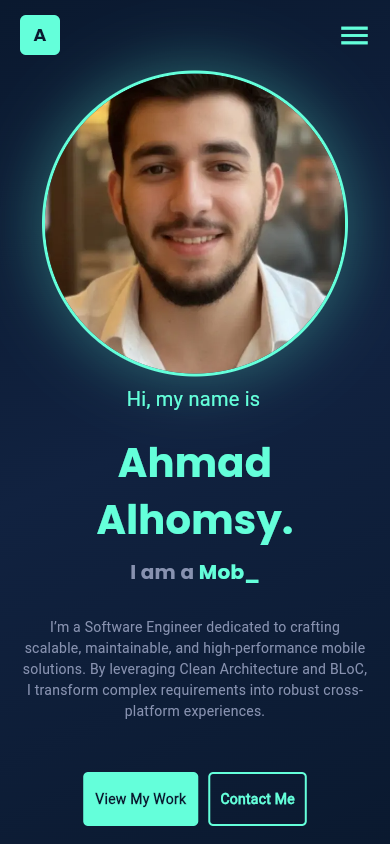
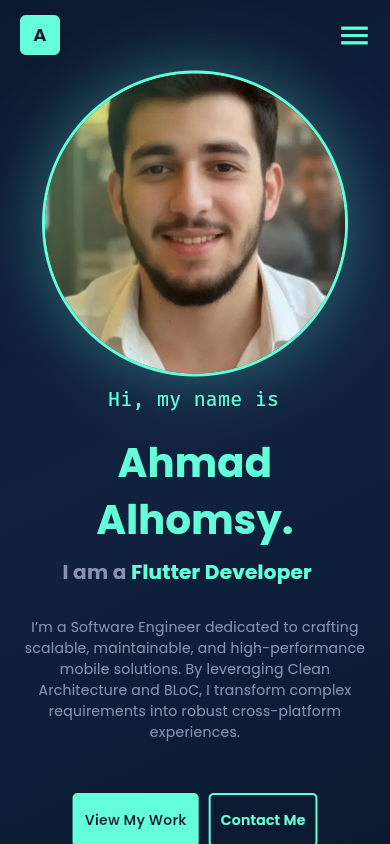
docs: correct README technical details and project previews

diff --git a/README.md b/README.md
@@ -1,12 +1,11 @@
 # Ahmad Alhomsy | Software Engineer & Flutter Developer
 
 [![CI/CD Pipeline](https://github.com/ahmadhomsy/portfolio/actions/workflows/deploy-netlify.yml/badge.svg?branch=main)](https://github.com/ahmadhomsy/portfolio/actions/workflows/deploy-netlify.yml)
-[![Flutter Version](https://img.shields.io/badge/Flutter-3.41.9-02569B?logo=flutter)](https://flutter.dev)
-[![Dart Version](https://img.shields.io/badge/Dart-3.11.0+-0175C2?logo=dart)](https://dart.dev)
+[![Flutter](https://img.shields.io/badge/Flutter-3.41.9-02569B?logo=flutter)](https://flutter.dev)
+[![Dart SDK](https://img.shields.io/badge/Dart_%3E%3D3.0.0_%3C4.0.0-0175C2?logo=dart)](https://dart.dev)
 [![Netlify Status](https://img.shields.io/badge/Hosted_on-Netlify-00C7B7?logo=netlify)](https://ahmad-alhomsy-portfolio.netlify.app)
-[![License: All Rights Reserved](https://img.shields.io/badge/License-All_Rights_Reserved-lightgrey.svg)](#license)
 
-Personal portfolio web application engineered with **Flutter Web**, demonstrating production-grade software architecture, responsive UI design, reactive state management, and automated continuous delivery.
+Personal portfolio web application engineered with **Flutter Web**, demonstrating structured feature-first architecture, responsive UI design, reactive state management, and automated continuous delivery.
 
 [**Explore Live Website**](https://ahmad-alhomsy-portfolio.netlify.app) &nbsp;&bull;&nbsp;
 [**GitHub Profile**](https://github.com/ahmadhomsy) &nbsp;&bull;&nbsp;
@@ -29,34 +28,60 @@ Personal portfolio web application engineered with **Flutter Web**, demonstratin
 
 This repository houses the personal portfolio single-page application (SPA) of **Ahmad Alhomsy**, a Mobile Software Engineer specializing in cross-platform application development with Flutter and Dart.
 
-The application serves as both an interactive résumé and a tangible demonstration of frontend engineering best practices:
-- **Clean Architecture & Decoupling:** Structured into independent core and feature layers to maximize testability and maintainability.
-- **Production CI/CD Automation:** Every Pull Request undergoes automated static analysis, code formatting verification, and production compilation checks before deployment.
-- **Responsive Across Form Factors:** Designed from the ground up to provide optimal viewing experiences across desktop monitors, tablets, and smartphones.
+The application serves as both an interactive résumé and a demonstration of software engineering practices:
+- **Feature-First Architecture:** Organized into modular feature packages and core shared services.
+- **Automated CI/CD:** Every Pull Request undergoes automated static analysis, code formatting verification, and release compilation before deployment.
+- **Responsive Across Devices:** Designed from the ground up to provide optimal viewing experiences across desktop, tablet, and mobile breakpoints.
 
 ---
 
 ## Key Features
 
 - **Responsive Multi-Device Layout:** Adaptive layouts featuring distinct desktop and mobile presentations, including collapsed navigation drawers and responsive typography.
-- **Fluid Micro-Interactions & Animations:** Declarative entrance transitions and hover states orchestrated via `flutter_animate` and custom typing effects.
-- **Declarative SPA Navigation:** Configured with `go_router` supporting deep linking, clean URLs, and client-side route fallback handling via Netlify edge redirects (`_redirects` and `netlify.toml`).
-- **Reactive State Architecture:** Predictable state flow powered by BLoC and Cubit patterns (`flutter_bloc`), separating business logic from UI widgets.
-- **Service Locator & Dependency Injection:** Loose coupling facilitated through `get_it`, allowing modular registration of services and helpers.
-- **SEO & Social Open Graph Integration:** Rich Open Graph and Twitter Card metadata embedded for search engine discoverability and social sharing previews.
+- **Fluid Micro-Interactions & Animations:** Declarative entrance transitions and hover states orchestrated via `flutter_animate` and dynamic typing effects powered by `animated_text_kit`.
+- **Declarative Routing:** Configured with `go_router` in `lib/core/helpers/go_router_helper.dart` supporting deep linking, clean URLs, and client-side route fallback handling via Netlify redirects defined in `netlify.toml`.
+- **Reactive State Management:** Predictable state flow powered by BLoC and Cubit patterns (`flutter_bloc`), separating business logic from UI widgets.
+- **Service Locator & Dependency Injection:** Loose coupling facilitated through `get_it`, initialized in `lib/injection_container.dart` for modular registration of services and helpers.
+- **SEO & Social Open Graph Integration:** Rich Open Graph and Twitter Card metadata embedded in `web/index.html` for discoverability and link previews.
 
 ---
 
 ## Featured Projects
 
-The portfolio showcases key mobile applications demonstrating architecture patterns, REST API integration, and real-world workflows:
-
-| Project | Description | Tech Stack | Repository |
-| :--- | :--- | :--- | :---: |
-| **Sham Booking** | Hotel and accommodation booking platform featuring comprehensive search filters, room discovery, and booking management. | Flutter, Dart, Clean Architecture, BLoC, REST APIs | [View Source](https://github.com/ahmadhomsy/sham-booking) |
-| **Daily Done** | Productivity and task execution manager implementing clean domain architecture, local persistence, and stateful task tracking. | Flutter, Dart, Clean Architecture, BLoC | [View Source](https://github.com/ahmadhomsy/daily_done_app_flutter_clean_code_architecture) |
-| **Weather App** | Weather forecasting application delivering real-time atmospheric updates, dynamic weather graphics, and geolocation forecasts. | Flutter, Dart, Clean Architecture, REST APIs | [View Source](https://github.com/ahmadhomsy/weather_app_flutter_clean_code_architecture) |
-| **Quiz App** | Interactive trivia mobile application featuring timed question rounds, score computation, and dynamic state evaluation. | Flutter, Dart, State Management, Custom UI | [View Source](https://github.com/ahmadhomsy/Quiz-App) |
+<table>
+  <tr>
+    <td width="50%" valign="top">
+      <img src="assets/images/sham_booking/sham_booking.webp" alt="Sham Booking Thumbnail" width="100%" />
+      <h3>Sham Booking</h3>
+      <p>Hotel and accommodation booking platform featuring comprehensive search filters, room discovery, and booking management.</p>
+      <p><strong>Technologies:</strong> Flutter, Dart, Clean Architecture, BLoC, REST APIs</p>
+      <p><a href="https://github.com/ahmadhomsy/sham-booking">View Source Repository &rarr;</a></p>
+    </td>
+    <td width="50%" valign="top">
+      <img src="assets/images/daily_done/img.webp" alt="Daily Done Thumbnail" width="100%" />
+      <h3>Daily Done</h3>
+      <p>Productivity and task execution manager implementing clean domain architecture, local persistence, and stateful task tracking.</p>
+      <p><strong>Technologies:</strong> Flutter, Dart, Clean Architecture, BLoC</p>
+      <p><a href="https://github.com/ahmadhomsy/daily_done_app_flutter_clean_code_architecture">View Source Repository &rarr;</a></p>
+    </td>
+  </tr>
+  <tr>
+    <td width="50%" valign="top">
+      <img src="assets/images/weather/weather_app_project.webp" alt="Weather App Thumbnail" width="100%" />
+      <h3>Weather App</h3>
+      <p>Weather forecasting application delivering real-time atmospheric updates, dynamic weather graphics, and geolocation forecasts.</p>
+      <p><strong>Technologies:</strong> Flutter, Dart, Clean Architecture, REST APIs</p>
+      <p><a href="https://github.com/ahmadhomsy/weather_app_flutter_clean_code_architecture">View Source Repository &rarr;</a></p>
+    </td>
+    <td width="50%" valign="top">
+      <img src="assets/images/quiz_app/quiz_app_project.webp" alt="Quiz App Thumbnail" width="100%" />
+      <h3>Quiz App</h3>
+      <p>Interactive trivia mobile application featuring timed question rounds, score computation, and dynamic state evaluation.</p>
+      <p><strong>Technologies:</strong> Flutter, Dart, State Management, Custom UI</p>
+      <p><a href="https://github.com/ahmadhomsy/Quiz-App">View Source Repository &rarr;</a></p>
+    </td>
+  </tr>
+</table>
 
 ### Additional Projects & Active Development
 
@@ -67,43 +92,55 @@ The portfolio showcases key mobile applications demonstrating architecture patte
 
 ## Technology Stack
 
-| Category | Technologies |
-| :--- | :--- |
-| **Framework & Language** | Flutter `3.41.9` (Web / CanvasKit & HTML renderers), Dart SDK `^3.11.0` |
-| **State Management** | `flutter_bloc` `^9.1.1`, `bloc` `^9.0.1` |
-| **Architecture & DI** | Feature-First Clean Architecture, `get_it` `^9.2.1` Service Locator |
-| **Routing & Navigation** | `go_router` `^17.1.0` with client-side SPA redirects |
-| **UI, Styling & Animation**| `flutter_animate` `^4.3.0`, Material Design 3, `google_fonts` `^8.0.2` |
-| **Iconography** | `lucide_icons` `^0.257.0`, `font_awesome_flutter` `^10.9.1` |
-| **System & Utilities** | `url_launcher` `^6.3.2` |
-| **Hosting & CI/CD** | GitHub Actions, Netlify CLI `^23.12.0`, Netlify Global CDN |
+| Category | Technology | Version / Constraint |
+| :--- | :--- | :--- |
+| **Framework** | Flutter | `3.41.9` (pinned in CI/CD) |
+| **Language** | Dart SDK | `>=3.0.0 <4.0.0` (as defined in `pubspec.yaml`) |
+| **State Management** | `bloc`<br>`flutter_bloc` | `^9.2.0`<br>`^9.1.1` |
+| **Service Locator** | `get_it` | `^9.2.1` |
+| **Routing** | `go_router` | `^17.1.0` |
+| **Animations & Typography** | `flutter_animate`<br>`animated_text_kit`<br>`google_fonts` | `^4.3.0`<br>`^4.2.2`<br>`^6.1.0` |
+| **Iconography** | `lucide_icons`<br>`font_awesome_flutter` | `^0.257.0`<br>`^10.6.0` |
+| **Platform Services** | `url_launcher` | `^6.2.2` |
+| **CI / Deployment Tooling** | Netlify CLI | `27.9.0` (invoked via `npx` in CI/CD workflow) |
 
 ---
 
 ## Project Structure
 
-The project follows a modular, feature-first folder organization:
+The codebase is organized following a feature-first architectural pattern:
 
 ```text
 lib/
+├── app.dart
+├── main.dart
+├── injection_container.dart
 ├── core/
-│   ├── helpers/         # Utility classes, URL launcher service, and platform helpers
-│   ├── theme/           # App colors, typography definitions, and ThemeData configuration
-│   └── widget/          # Reusable shared components, responsive wrappers, and section headers
-├── features/
-│   ├── home/            # Main portfolio presentation layer
-│   │   ├── data/        # Static content models, section data, and experience records
-│   │   ├── logic/       # Cubits and state management controllers
-│   │   └── presentation/
-│   │       ├── pages/   # Primary HomeScreen entry point
-│   │       └── widget/  # Section widgets (Hero, About, Projects, Experience, Skills, Contact)
-│   └── project/         # Dedicated project detail showcases
-│       ├── data/        # Project model definitions and portfolio data fixtures
-│       ├── logic/       # Project state cubits
-│       └── presentation/# Project preview cards and detail views
-├── main.dart            # Application entry point and router initialization
-└── service_locator.dart # GetIt dependency injection registry
+│   ├── bootstrap/
+│   ├── enums/
+│   ├── extension/
+│   ├── helpers/
+│   ├── theme/
+│   └── widget/
+└── features/
+    ├── home/
+    │   ├── cubit/
+    │   ├── data/
+    │   └── presentation/
+    │       ├── pages/
+    │       └── widget/
+    └── project/
+        ├── data/
+        └── presentation/
+            ├── pages/
+            └── widget/
 ```
+
+- **`lib/app.dart` & `lib/main.dart`:** Application root widget, theme initialization, and entry point.
+- **`lib/injection_container.dart`:** Central service locator configuring `GetIt` dependencies across core services and feature cubits.
+- **`lib/core/`:** Shared foundations including bootstrap logic, enums, extensions, layout helpers (`Responsive`), router configuration (`go_router_helper.dart`), app theme, and reusable widgets.
+- **`lib/features/home/`:** Main portfolio view partitioned into `cubit` (hover and navigation state), `data` (section definitions and text models), and `presentation` (screen layout and section components).
+- **`lib/features/project/`:** Project detail presentation models, preview cards, and responsive project screens.
 
 ---
 
@@ -111,9 +148,9 @@ lib/
 
 ### Prerequisites
 
-- [Flutter SDK](https://docs.flutter.dev/get-started/install) pinned to `3.41.9` (Channel `stable`)
-- [Dart SDK](https://dart.dev/get-dart) `^3.11.0`
-- [Google Chrome](https://www.google.com/chrome/) for local web execution and debugging
+- [Flutter SDK](https://docs.flutter.dev/get-started/install) `3.41.9`
+- [Dart SDK](https://dart.dev/get-dart) within `>=3.0.0 <4.0.0`
+- [Google Chrome](https://www.google.com/chrome/) for local web execution
 
 ### Local Installation
 
@@ -136,7 +173,7 @@ lib/
 4. **Run static analysis & code formatting:**
    ```bash
    dart format --output=none --set-exit-if-changed .
-   flutter analyze --fatal-infos
+   flutter analyze
    ```
 
 5. **Generate a production web release build:**
@@ -149,32 +186,48 @@ lib/
 
 ## CI/CD Pipeline & Quality Assurance
 
-Continuous integration and automated delivery are orchestrated via GitHub Actions and Netlify:
+Continuous integration and automated delivery are orchestrated across GitHub Actions and Netlify:
 
 ```mermaid
-flowchart LR
-    A["Pull Request / Push"] --> B["Setup Flutter 3.41.9"]
-    B --> C["flutter pub get"]
-    C --> D["dart format --check"]
-    D --> E["flutter analyze --fatal-infos"]
-    E --> F["flutter build web --release"]
-    F --> G{"Target Branch?"}
-    G -- "main (Push)" --> H["Deploy Production to Netlify"]
-    G -- "Pull Request" --> I["Pass Checks (Preview Verified)"]
+flowchart TD
+    subgraph Trigger["Git Events"]
+        PR["Pull Request to main"]
+        Push["Push / Merge to main"]
+    end
+
+    subgraph GitHubActions["GitHub Actions (.github/workflows/deploy-netlify.yml)"]
+        A["Setup Flutter 3.41.9"] --> B["flutter pub get"]
+        B --> C["dart format --check"]
+        C --> D["flutter analyze"]
+        D --> E["flutter build web --release"]
+        E --> F{"Branch = main?"}
+        F -- Yes --> G["npx netlify-cli@27.9.0 deploy --prod"]
+        F -- No --> H["CI Checks Pass"]
+    end
+
+    subgraph NetlifyIntegration["Netlify Git Integration (netlify.toml)"]
+        PR --> NP["Install Flutter 3.41.9 & Build"]
+        NP --> ND["Deploy Preview URL Generated"]
+    end
+
+    PR --> A
+    Push --> A
 ```
 
-- **Workflow Definition:** [`.github/workflows/deploy-netlify.yml`](.github/workflows/deploy-netlify.yml)
-- **Quality Gates:** Every commit and PR triggers automated checks ensuring zero code style discrepancies (`dart format`), zero static analysis warnings or infos (`flutter analyze --fatal-infos`), and clean release compilation (`flutter build web --release`).
-- **Production Deployment:** Merging or pushing to `main` automatically deploys the compiled `build/web` distribution to Netlify edge nodes using pinned `netlify-cli`.
-- **Testing Strategy:** The default starter template tests have been archived from the gating workflow; dedicated widget and unit test suites reflecting the portfolio's architecture are currently scheduled for subsequent engineering milestones.
-
----
-
-## License
-
-Copyright &copy; 2026 Ahmad Alhomsy. All rights reserved.
-
-The source code and portfolio assets are proprietary. Unauthorized redistribution or commercial duplication without prior written permission is prohibited.
+- **GitHub Actions Workflow:** [`.github/workflows/deploy-netlify.yml`](.github/workflows/deploy-netlify.yml) executes on every Pull Request targeting `main` and on direct pushes to `main`. It enforces strict quality gates:
+  ```bash
+  flutter pub get
+  dart format --output=none --set-exit-if-changed .
+  flutter analyze
+  flutter build web --release
+  ```
+- **Production Deployment:** On merge to `main`, GitHub Actions deploys the production bundle to Netlify using pinned `netlify-cli@27.9.0`:
+  ```bash
+  npx --yes netlify-cli@27.9.0 deploy --prod --dir=build/web --site "$NETLIFY_SITE_ID"
+  ```
+- **Netlify Deploy Previews:** Netlify independently builds and publishes ephemeral Deploy Previews for incoming pull requests via its repository integration using `netlify.toml`.
+- **SPA Routing:** Client-side SPA routing fallback is handled by the redirect rule in `netlify.toml` (`/*` &rarr; `/index.html` with status `200`).
+- **Testing Status:** The repository currently contains the default Flutter counter smoke test, which does not represent the portfolio application. Automated widget and unit testing is not yet enforced in the CI workflow.
 
 ---
 
